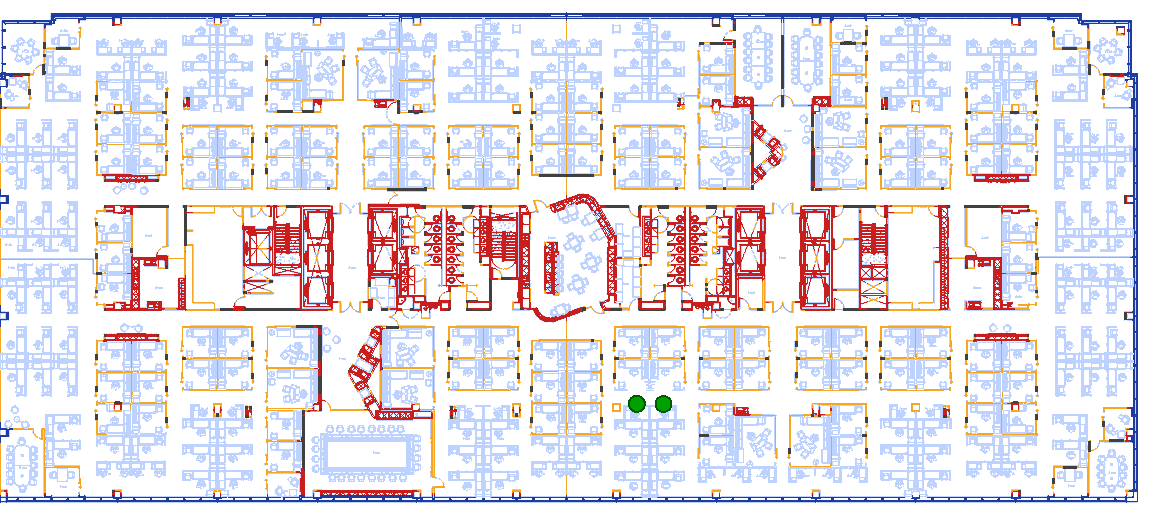
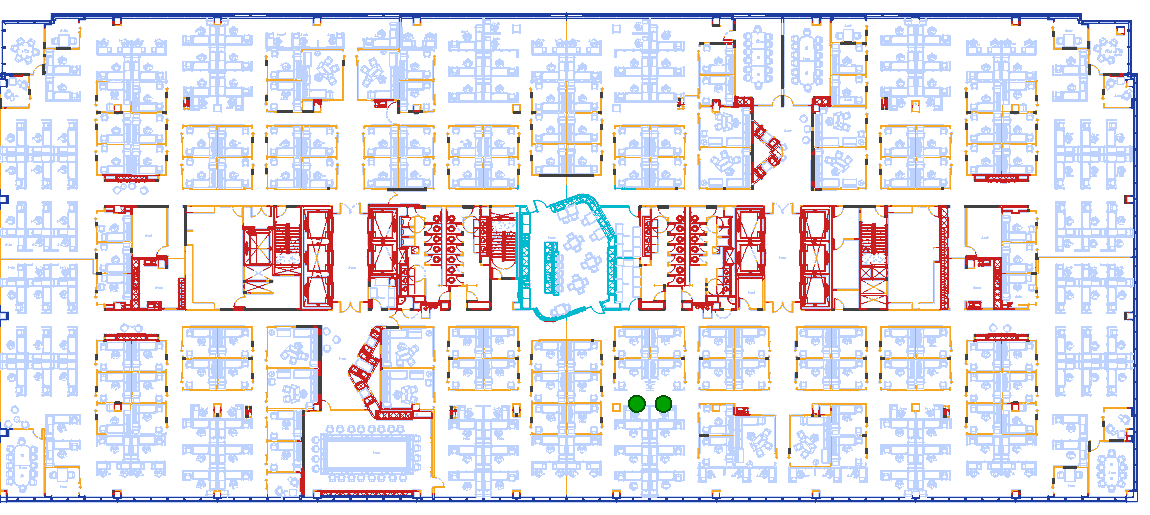
Encode walked ground-truth materials + manual override mechanism
The CV pass can only see line weight/hatching, not material identity, so
this bakes in what the building actually is:

- exterior envelope -> glass curtain wall, 15 -> 3 dB
- columns -> drywall-wrapped, reassigned from concrete (15 dB) to drywall (4 dB)
- furniture -> soft/wood (couches, chairs), 1 -> 0.5 dB
- new id 6 glass_partition (2 dB) and id 7 cubicle_aluminum_panel (6 dB),
  assignable only via the new material_overrides.json: hand-drawn rect/polygon
  regions re-label listed material ids after auto-classification (rough boxes
  are safe -- air/furniture untouched). Seeded with the glass lunch-room
  enclosure at the center of the floor (3294 px re-labeled).

Changed region(s): [[0.4261, 0.3728, 0.5478, 0.6214]]

diff --git a/STEP_1/rasterize_floorplan.py b/STEP_1/rasterize_floorplan.py
@@ -45,13 +45,20 @@ PARAMS = dict(
 )
 
 # Material table (per-crossing penetration loss, dB), ~2.4-5 GHz band.
+# Loss values reflect walked ground truth for this building: exterior and
+# lunch-room enclosure are glass, columns are drywall-wrapped, furniture is
+# soft/wood, cubicle partitions are aluminum-skinned. Ids 6 and 7 are never
+# assigned by the auto-classifier (glass and drywall are indistinguishable
+# thin lines in the drawing) -- they come from material_overrides.json.
 MATERIALS = {
-    0: dict(name="air",                loss_db=0.0,  color=(255, 255, 255)),
-    1: dict(name="drywall_partition",  loss_db=4.0,  color=(245, 166, 35)),
+    0: dict(name="air",                 loss_db=0.0,  color=(255, 255, 255)),
+    1: dict(name="drywall_partition",   loss_db=4.0,  color=(245, 166, 35)),
     2: dict(name="concrete_or_masonry", loss_db=15.0, color=(64, 64, 64)),
-    3: dict(name="core_service_area",  loss_db=20.0, color=(200, 30, 30)),
-    4: dict(name="furniture_clutter",  loss_db=1.0,  color=(190, 210, 255)),
-    5: dict(name="exterior_envelope",  loss_db=15.0, color=(30, 60, 160)),
+    3: dict(name="core_service_area",   loss_db=20.0, color=(200, 30, 30)),
+    4: dict(name="furniture_soft_wood", loss_db=0.5,  color=(190, 210, 255)),
+    5: dict(name="exterior_glass_curtain_wall", loss_db=3.0, color=(30, 60, 160)),
+    6: dict(name="glass_partition",     loss_db=2.0,  color=(0, 185, 205)),
+    7: dict(name="cubicle_aluminum_panel", loss_db=6.0, color=(150, 150, 165)),
 }
 
 WGS84_A = 6378137.0
@@ -245,11 +252,36 @@ def classify(rgb, p=PARAMS):
     # ---- 8. Assemble grid (later assignments override earlier) ----------------
     grid = np.zeros((H, W), np.uint8)                  # 0 air
     grid[furn | small_dark] = 4                        # furniture / clutter / text
-    grid[structural] = 1                               # drywall by default
-    grid[thick | columns] = 2                          # concrete: thick walls + columns
+    grid[structural | columns] = 1                     # drywall (columns are
+                                                       #   drywall-wrapped here)
+    grid[thick] = 2                                    # concrete: thick shaft walls
     grid[hatched & structural] = 3                     # core service areas
-    grid[exterior] = 5                                 # exterior envelope
+    grid[exterior] = 5                                 # exterior envelope (glass)
     return grid, tx
+
+
+def apply_overrides(grid, overrides_path):
+    """Hand-labeled material corrections for what the drawing can't show
+    (glass vs drywall look identical as lines). Each entry re-labels only the
+    ids in applies_to inside its region, so rough boxes are safe: air and
+    furniture stay untouched unless explicitly listed."""
+    spec = json.loads(Path(overrides_path).read_text())
+    H, W = grid.shape
+    for ov in spec.get("overrides", []):
+        region = np.zeros((H, W), bool)
+        if "rect_px" in ov:
+            x0, y0, x1, y1 = ov["rect_px"]
+            region[max(0, int(y0)):int(y1) + 1, max(0, int(x0)):int(x1) + 1] = True
+        elif "polygon_px" in ov:
+            from matplotlib.path import Path as MplPath
+            yy, xx = np.mgrid[0:H, 0:W]
+            pts = np.column_stack([xx.ravel(), yy.ravel()])
+            region = MplPath(ov["polygon_px"]).contains_points(pts).reshape(H, W)
+        mask = region & np.isin(grid, ov.get("applies_to", [1, 2, 3, 5]))
+        grid[mask] = ov["material"]
+        print(f"  override '{ov.get('label', '?')}': "
+              f"{int(mask.sum())} px -> {MATERIALS[ov['material']]['name']}")
+    return grid
 
 
 # --------------------------------------------------------------------------
@@ -258,6 +290,9 @@ def main():
     ap.add_argument("image", help="floor plan PNG")
     ap.add_argument("--tab", help="MapInfo .TAB georeference (defaults to <image>.TAB)")
     ap.add_argument("--out", default=".", help="output directory (default: cwd)")
+    ap.add_argument("--overrides",
+                    help="material overrides JSON (defaults to "
+                         "<out>/material_overrides.json when present)")
     args = ap.parse_args()
 
     img_path = Path(args.image)
@@ -268,6 +303,10 @@ def main():
     rgb = np.asarray(Image.open(img_path).convert("RGB"))
     grid, tx = classify(rgb)
     H, W = grid.shape
+
+    ov_path = Path(args.overrides) if args.overrides else out / "material_overrides.json"
+    if ov_path.exists():
+        grid = apply_overrides(grid, ov_path)
 
     geo, M_local, M_merc, M_lonlat = build_georef(tab_path)
     for t in tx:

diff --git a/STEP_1/README.md b/STEP_1/README.md
@@ -21,6 +21,7 @@ from `<image>.TAB` automatically, or pass `--tab`.
 | File | What it is |
 |---|---|
 | `rasterize_floorplan.py` | Classical-CV classifier (threshold → component-size → thickness/density heuristics). All tunables in `PARAMS` at the top. |
+| `material_overrides.json` | Hand-labeled corrections for what the drawing can't show (glass vs drywall are identical thin lines). Applied automatically after classification. |
 | `material_grid.npy` | 515 × 1150 `uint8` grid, one material id per cell (`np.load` it) |
 | `materials.json` | material id → name + per-crossing penetration loss (dB) |
 | `transmitters.json` | Tx pins in float px, local ENU meters, lon/lat, and EPSG:3857 |
@@ -42,18 +43,34 @@ from `<image>.TAB` automatically, or pass `--tab`.
 
 ## Material classes / losses
 
-| id | class | loss per crossing |
-|---|---|---|
-| 0 | air | 0 dB |
-| 1 | drywall partition | 4 dB |
-| 2 | concrete / masonry (thick walls, columns) | 15 dB |
-| 3 | core service area (elevators, stairs, WC) | 20 dB |
-| 4 | furniture / clutter | 1 dB |
-| 5 | exterior envelope | 15 dB (use ~3 dB if glass curtain wall) |
+Loss values reflect walked ground truth for this building (glass exterior and
+lunch room, drywall-wrapped columns, soft/wood furniture, aluminum cubicle
+panels), not generic assumptions.
+
+| id | class | loss per crossing | assigned by |
+|---|---|---|---|
+| 0 | air | 0 dB | — |
+| 1 | drywall partition (incl. columns, bathroom doors) | 4 dB | auto |
+| 2 | concrete / masonry (thick shaft walls) | 15 dB | auto |
+| 3 | core service area (elevators, stairs, WC) | 20 dB | auto |
+| 4 | furniture, soft / wood (couches, chairs, desks) | 0.5 dB | auto |
+| 5 | exterior glass curtain wall | 3 dB | auto |
+| 6 | glass partition (lunch room, glass doors) | 2 dB | overrides only |
+| 7 | cubicle aluminum panel | 6 dB | overrides only |
+
+The auto-classifier cannot tell glass from drywall (both are thin lines in a
+CAD drawing) — ids 6 and 7 exist so `material_overrides.json` can re-label
+regions you know from walking the floor. Add an entry with a rough
+`rect_px: [x0, y0, x1, y1]` (or `polygon_px`) and the ids it `applies_to`;
+only those ids inside the box are re-labeled, so air and furniture are safe.
+The seeded lunch-room box is a rough guess — adjust its extent.
 
 Loss values are for the 2.4–5 GHz band; rescale for 3.5 GHz NR if needed.
 `loss_db` is per **wall crossing** — a contiguous run of one material along a
-ray counts once, not per cell.
+ray counts once, not per cell. Note: if the exterior glazing is low-E
+(metal-coated, common in modern offices), outdoor↔indoor loss is far higher
+than 3 dB (20+ dB) — irrelevant for indoor-only simulation, but it matters if
+you ever model street-level donors.
 
 ## Known limitations
 